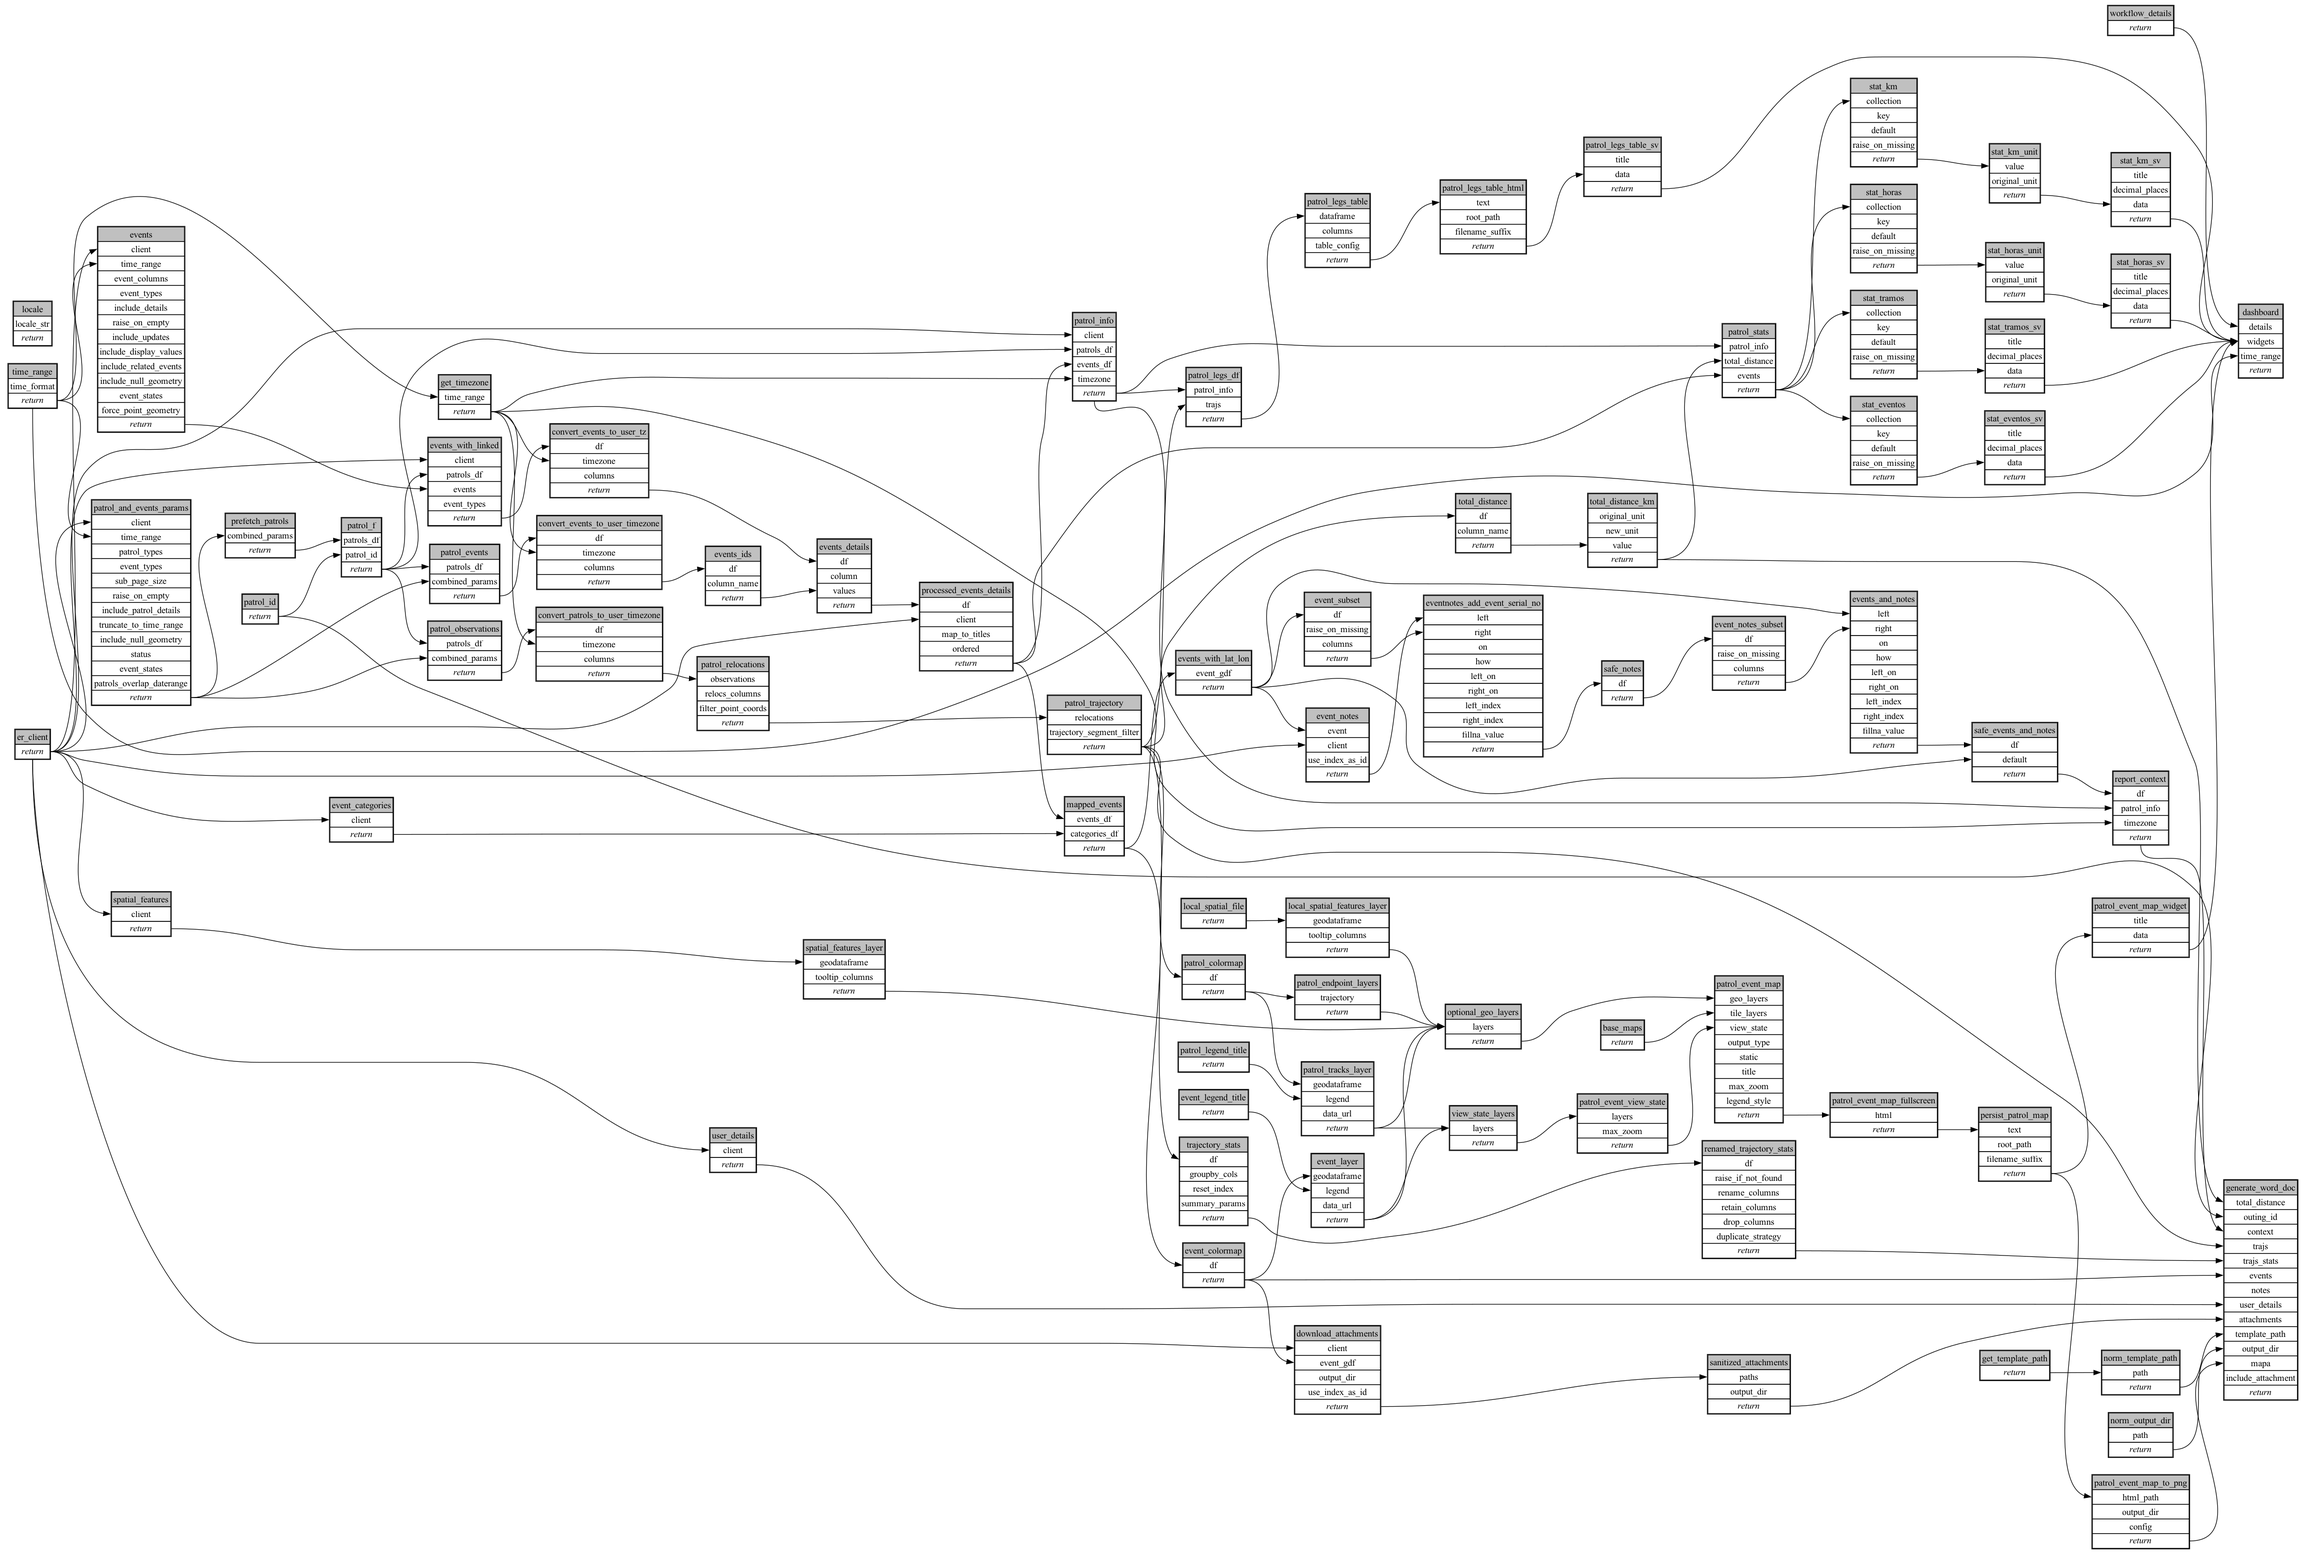
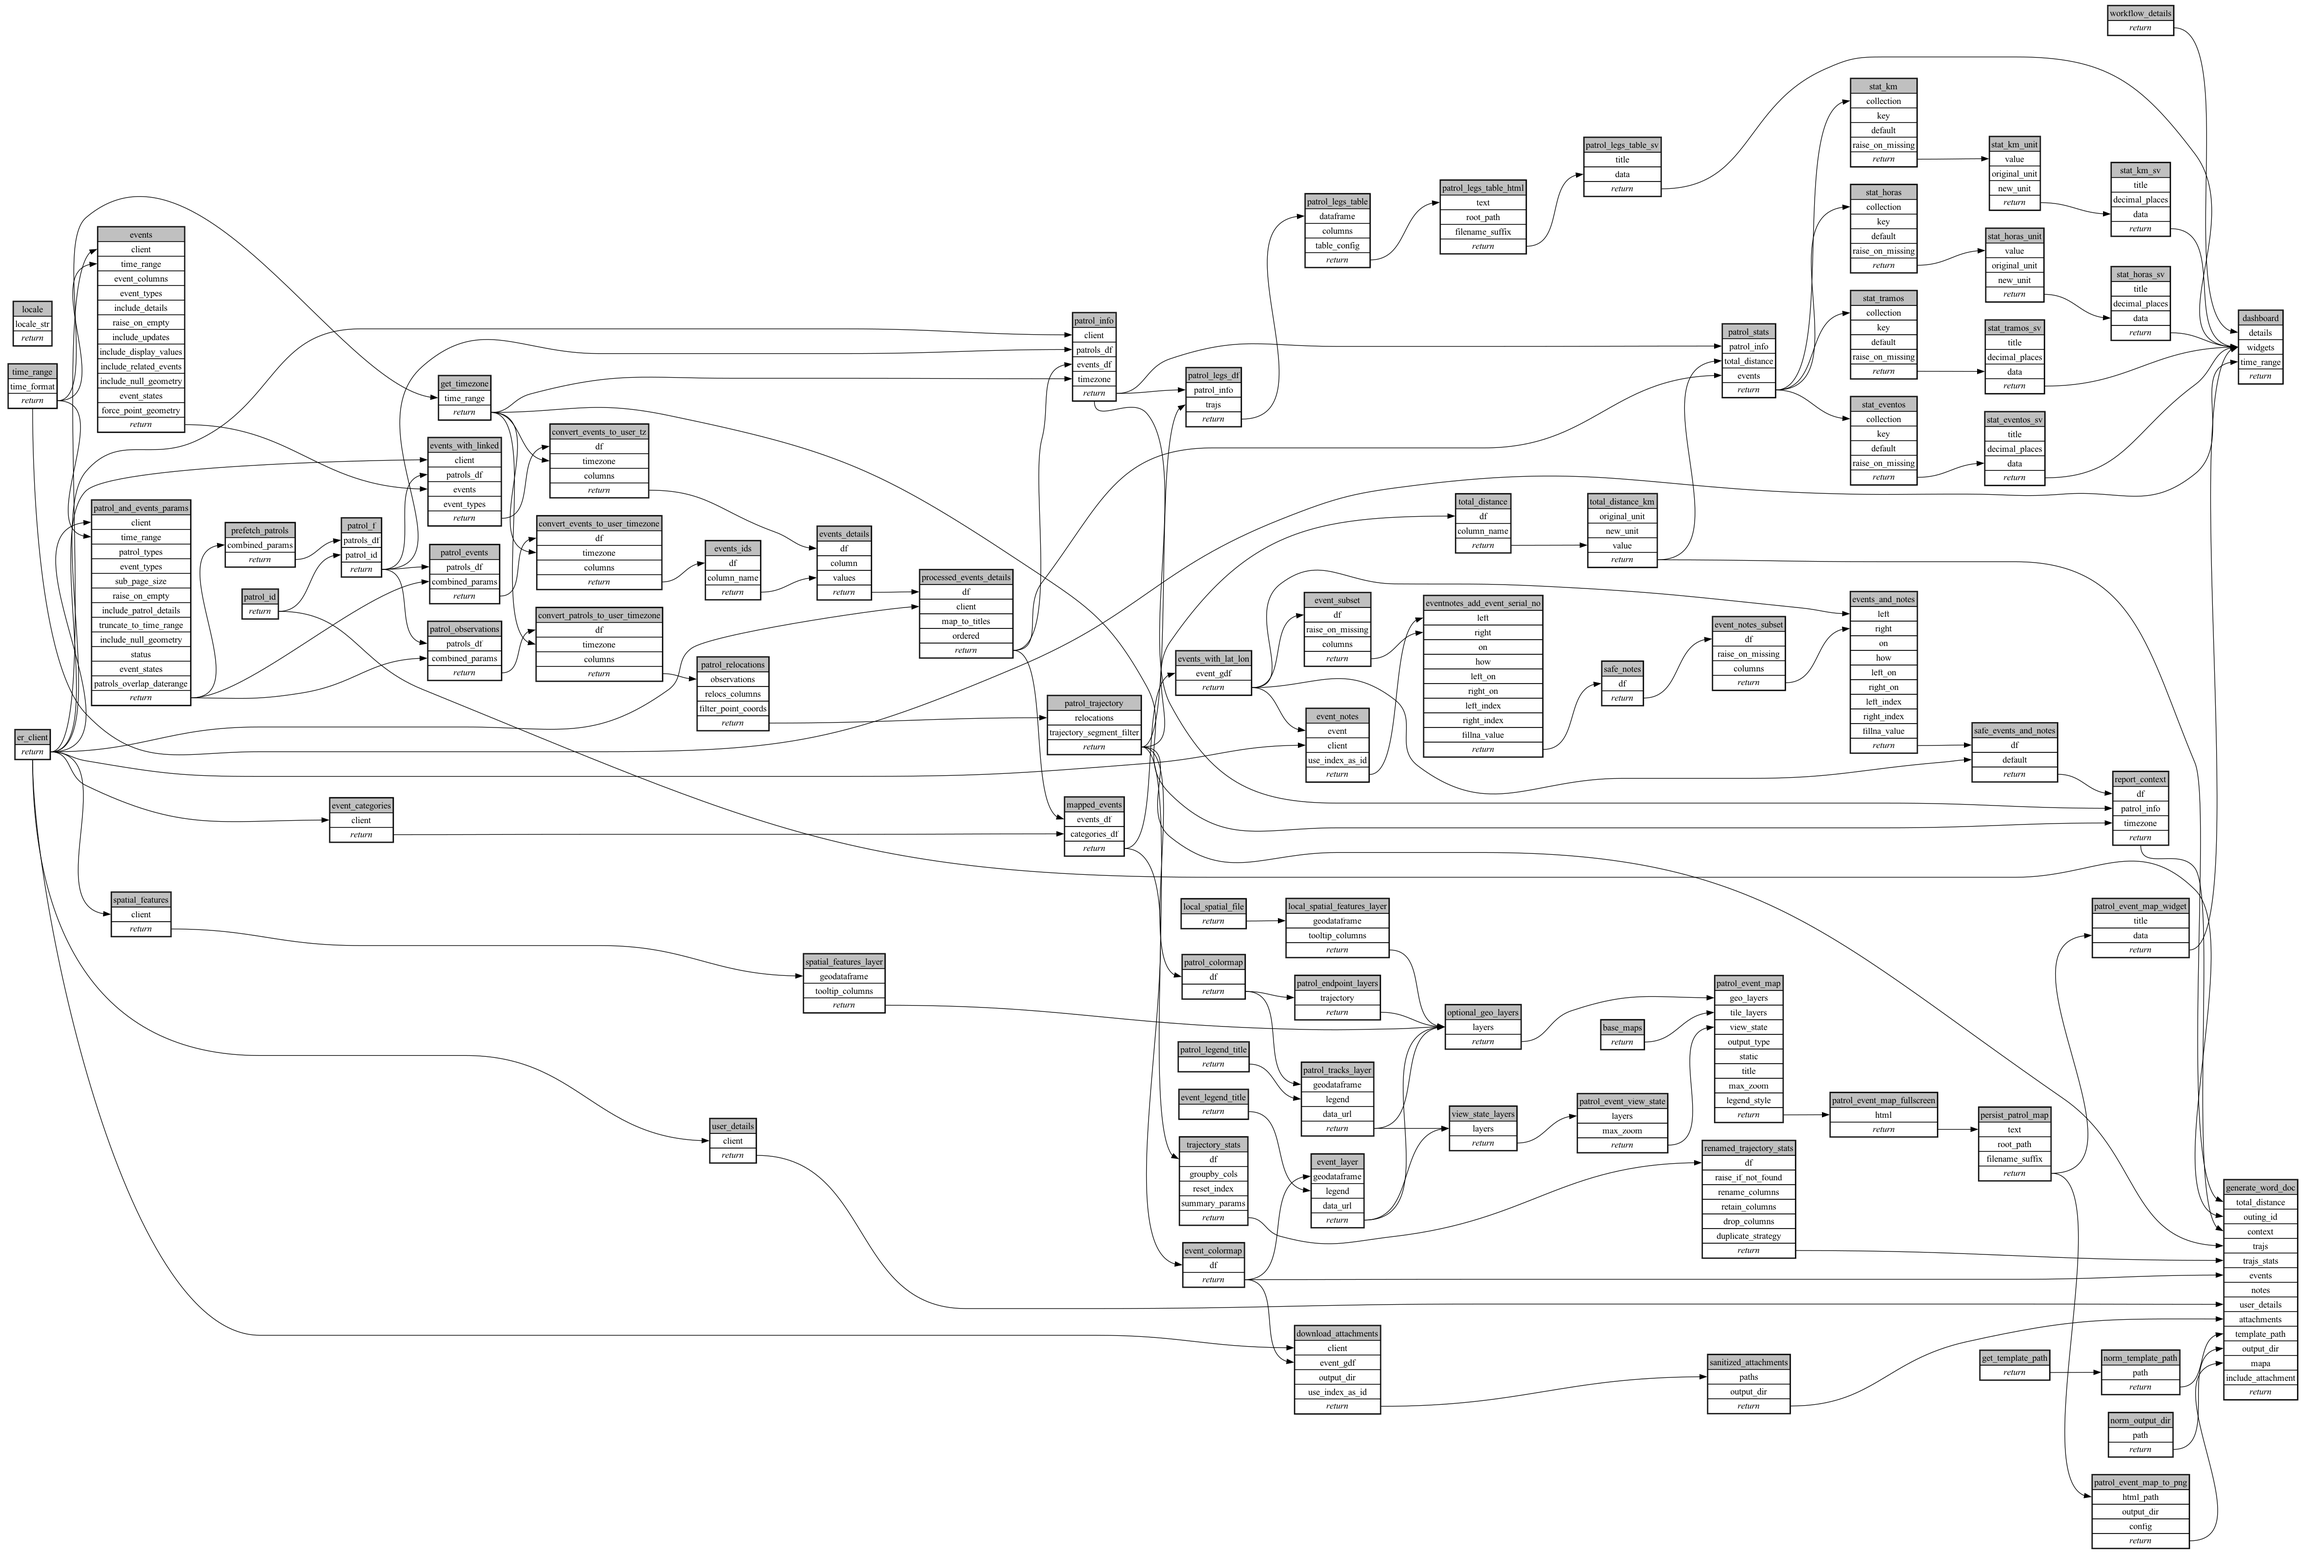
Fix config page: hide with_unit options, order wildcard, rjsf order check
ecoscope-desktop rejected the form: the tile unit steps exposed with_unit's new_unit as a
'Headline Stats' section missing from ui:order. Pin new_unit, end ui:order with '*', and add
dev/check_rjsf_order.py to catch this before release.

diff --git a/dev/check_rjsf_order.py b/dev/check_rjsf_order.py
@@ -1,0 +1,25 @@
+"""Check rjsf.json against react-jsonschema-form's ui:order rules (what ecoscope-desktop enforces).
+
+Usage: python dev/check_rjsf_order.py path/to/rjsf.json
+"""
+import json
+import sys
+
+
+def check(props: dict, ui: dict, path: str, errors: list) -> None:
+    order = ui.get("ui:order")
+    if order is not None:
+        keys = list(props)
+        if "*" not in order:
+            errors += [f"{path}: ui:order does not contain property {k!r}" for k in keys if k not in order]
+        errors += [f"{path}: ui:order contains extraneous property {k!r}" for k in order if k != "*" and k not in keys]
+    for k, sub in props.items():
+        if isinstance(sub, dict) and isinstance(sub.get("properties"), dict):
+            check(sub["properties"], ui.get(k, {}) if isinstance(ui.get(k), dict) else {}, f"{path}/{k}", errors)
+
+
+rjsf = json.load(open(sys.argv[1]))
+errs: list = []
+check(rjsf["properties"], rjsf.get("uiSchema", {}), "root", errs)
+print("\n".join(errs) or "ui:order OK")
+sys.exit(1 if errs else 0)

diff --git a/ecoscope-workflows-patrol-event-workflow/ecoscope_workflows_patrol_event_workflow/dags/run_sequential.py b/ecoscope-workflows-patrol-event-workflow/ecoscope_workflows_patrol_event_workflow/dags/run_sequential.py
@@ -1112,7 +1112,10 @@ def main(params: dict[str, Any], validate_params_schema: bool = True):
             unpack_depth=1,
         )
         .partial(
-            value=stat_km, original_unit="km", **(params.get("stat_km_unit") or {})
+            value=stat_km,
+            original_unit="km",
+            new_unit=None,
+            **(params.get("stat_km_unit") or {}),
         )
         .call()
     )
@@ -1175,7 +1178,10 @@ def main(params: dict[str, Any], validate_params_schema: bool = True):
             unpack_depth=1,
         )
         .partial(
-            value=stat_horas, original_unit="h", **(params.get("stat_horas_unit") or {})
+            value=stat_horas,
+            original_unit="h",
+            new_unit=None,
+            **(params.get("stat_horas_unit") or {}),
         )
         .call()
     )

diff --git a/ecoscope-workflows-patrol-event-workflow/ecoscope_workflows_patrol_event_workflow/dags/run_sequential_mock_io.py b/ecoscope-workflows-patrol-event-workflow/ecoscope_workflows_patrol_event_workflow/dags/run_sequential_mock_io.py
@@ -1139,7 +1139,10 @@ def main(params: dict[str, Any], validate_params_schema: bool = True):
             unpack_depth=1,
         )
         .partial(
-            value=stat_km, original_unit="km", **(params.get("stat_km_unit") or {})
+            value=stat_km,
+            original_unit="km",
+            new_unit=None,
+            **(params.get("stat_km_unit") or {}),
         )
         .call()
     )
@@ -1202,7 +1205,10 @@ def main(params: dict[str, Any], validate_params_schema: bool = True):
             unpack_depth=1,
         )
         .partial(
-            value=stat_horas, original_unit="h", **(params.get("stat_horas_unit") or {})
+            value=stat_horas,
+            original_unit="h",
+            new_unit=None,
+            **(params.get("stat_horas_unit") or {}),
         )
         .call()
     )

diff --git a/ecoscope-workflows-patrol-event-workflow/README.md b/ecoscope-workflows-patrol-event-workflow/README.md
@@ -5,8 +5,8 @@
 
 ```yaml
 # fingerprint:
-artifacts_sha256_basic: 45aa88ceaab8a714d5f7da7c860fba2ccd45aaefc4b39d9c92b7ef5adfa883de
-artifacts_sha256_strict: 5560add4fb9c449fdf2b4724878b942fa80521fcf271e4c073e0d62ffc12df6d
+artifacts_sha256_basic: ae44a228a70758a5b4deee0bb3bd1d78c70bd39dad102bb09e428d3f592a3e63
+artifacts_sha256_strict: 5c2e5b72d2d04eac9ae5ec80f795cc0bb031340ca03efaf30fd525b1f4a1f68f
 installed_requirements:
 - channel: https://repo.prefix.dev/ecoscope-workflows/
   name: ecoscope-platform
@@ -20,8 +20,8 @@ installed_requirements:
 - channel: https://repo.prefix.dev/ecoscope-workflows-custom/
   name: ecoscope-workflows-ext-apn
   version: {version: ==0.0.32}
-params_sha256: 3c65a45f3af97492a28bf793bd8f808e28934226941a44de09cca3afccdaee58
-spec_sha256: 9d2ec6d062b94c3fa6c152dd7e8ebe48ff5d13704d70e0959eab1495859d79af
+params_sha256: a16ad72ea7422e6e16194169fefc8cc988e4a1fe996ccc7034e473ed650e2016
+spec_sha256: d088afa9cd53da453dca20e57f6ed83baf66cdb1502d478b3ce5acaa1e8ee7e9
 
 ```
 
